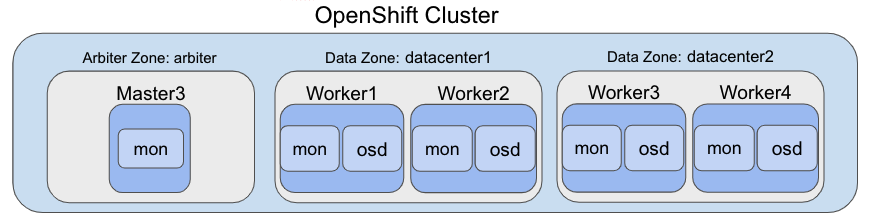
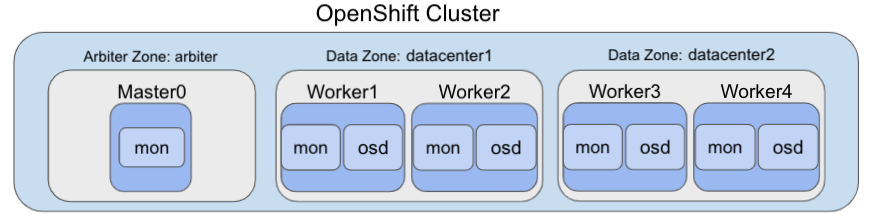
[CI] Publish Documentation for 5119fe1442221f3171c549f44bf7bf0f9fc0684e - 5119fe1442221f3171c549f44bf7bf0f9fc0684e 🚀

diff --git a/training/ocs4/ocs4-metro-stretched.html b/training/ocs4/ocs4-metro-stretched.html
@@ -169,17 +169,16 @@
 <li><a href="#_modify_deployment_to_be_zone_aware">5.1. Modify Deployment to be Zone Aware</a></li>
 </ul>
 </li>
-<li><a href="#_arbiter_zone_failure_test">6. Arbiter Zone Failure Test</a></li>
-<li><a href="#_data_zone_failure_test">7. Data Zone Failure Test</a></li>
-<li><a href="#_appendix_a_openshift_registry_routing_monitoring_zone_aware">8. Appendix A: OpenShift Registry, Routing, Monitoring Zone Aware</a></li>
-<li><a href="#_appendix_b_metro_dr_storagecluster_cli_deployment">9. Appendix B: Metro DR StorageCluster CLI deployment</a></li>
+<li><a href="#_data_zone_failure_test">6. Data Zone Failure Test</a></li>
+<li><a href="#_appendix_a_resiliency_for_openshift_registry_routing_monitoring">7. Appendix A: Resiliency for OpenShift Registry, Routing, Monitoring</a></li>
+<li><a href="#_appendix_b_metro_dr_storagecluster_for_cli_deployment">8. Appendix B: Metro DR StorageCluster for CLI deployment</a></li>
 </ul>
 </div>
 <div class="sect1">
 <h2 id="_overview"><a class="anchor" href="#_overview"></a>1. Overview</h2>
 <div class="sectionbody">
 <div class="paragraph">
-<p>In order to provide a level of disaster recovery an OpenShift Container Platform (OCP) deployment can be <code>stretched</code> between two geographically different locations. To do this necessary services including storage must be able to survive when one of the two locations is partially or totally not available. This solution sometimes is called <code>Metro DR stretch cluster</code> which means the distance between the sites needs to be limited so that OpenShift services and storage can operate with acceptable performance.</p>
+<p>In order to provide a level of disaster recovery an OpenShift Container Platform (OCP) deployment can be <code>stretched</code> between two geographically different locations. To be resilient in the face of a disaster necessary OCP services, including storage, must be able to survive when one of the two locations is partially or totally not available. This solution sometimes is called <code>Metro DR stretch cluster</code> which means the distance between the sites needs to be limited so that OpenShift services and storage can operate with acceptable performance.</p>
 </div>
 <div class="admonitionblock note">
 <table>
@@ -188,13 +187,13 @@
 <i class="fa icon-note" title="Note"></i>
 </td>
 <td class="content">
-Currently <code>Metro DR stretch cluster</code> is designed to be deployed where latencies do not exceed 4 milliseconds round-trip time (RTT) between locations. Contact <a href="https://access.redhat.com/support">Red Hat Customer Support</a> if you are planning to deploy with higher latencies.
+Currently <code>Metro DR stretch cluster</code> is tested to be deployed where latencies do not exceed 4 milliseconds round-trip time (RTT) between OCP nodes in different locations. Contact <a href="https://access.redhat.com/support">Red Hat Customer Support</a> if you are planning to deploy with higher latencies.
 </td>
 </tr>
 </table>
 </div>
 <div class="paragraph">
-<p>The intent of this solution guide is to detail the steps and commands necessary to deploy <code>OpenShift Data Foundation</code>(ODF) along with Kubernetes zone topology labels to achieve a highly available platform.</p>
+<p>The intent of this solution guide is to detail the steps and commands necessary to deploy <code>OpenShift Data Foundation</code>(ODF) along with Kubernetes zone topology labels to achieve a highly available storage infrastructure.</p>
 </div>
 <div class="paragraph">
 <p>This is a general overview of the steps required to configure and execute <code>Metro DR stretch cluster</code> capabilities using ODF <strong>4.7</strong> or greater.</p>
@@ -206,16 +205,16 @@ Currently <code>Metro DR stretch cluster</code> is designed to be deployed where
 Ensure that there is a master node in each of the two locations and that the 3rd master node is in a 3rd location to act as the arbiter in the case of site outage.</p>
 </li>
 <li>
-<p><strong>Ensure you have at least 4 OCP worker nodes in 2 different locations</strong><br>
-Ensure that the worker nodes are evenly split in each of the two locations with a minimum of 2 worker nodes in each location.</p>
+<p><strong>Ensure you have a minimum of 4 OCP worker nodes</strong><br>
+Ensure you have at least 4 OCP worker nodes evenly dispersed across 2 different locations.</p>
 </li>
 <li>
 <p><strong>Assign kubernetes topology zone labels to each master and worker node</strong><br>
-Assign unique topology.kubernetes.io/zone labels to each node to define failure domains as well as the arbiter zone.</p>
+Assign unique <code>topology.kubernetes.io/zone</code> labels to each node to define failure domains as well as the arbiter zone.</p>
 </li>
 <li>
-<p><strong>Install OpenShift Container Storage operator</strong><br>
-Install the OCS operator using OperatorHub in the OpenShift Web console.</p>
+<p><strong>Install ODF operators and storage cluster</strong><br>
+Install the OpenShift Container Storage operator and storage cluster using OperatorHub in the OpenShift Web console.</p>
 </li>
 <li>
 <p><strong>Install a sample application for failure testing</strong><br>
@@ -237,7 +236,7 @@ Simulate a recovery by powering back on all nodes and validate sample applicatio
 <h2 id="_metro_dr_stretch_cluster_prerequisites"><a class="anchor" href="#_metro_dr_stretch_cluster_prerequisites"></a>2. Metro DR Stretch Cluster Prerequisites</h2>
 <div class="sectionbody">
 <div class="paragraph">
-<p>The diagram shows the most simple deployment for <code>Metro DR stretch cluster</code>. The ODF Monitor pod that is the <code>arbiter</code> in case of a site outage can be scheduled on a master node. The diagram does not show an additional master nodes in each <code>Data Zone</code> which is required for a highly available OCP control plane. Also, it is critical that the OCP nodes in one location have network reachability to the OCP nodes in the other two locations.</p>
+<p>The diagram shows the most simple deployment for <code>Metro DR stretch cluster</code>. The ODF Monitor pod that is the <code>arbiter</code> in case of a site outage can be scheduled on a master node. The diagram does not show the master nodes in each <code>Data Zone</code>. They are required for a highly available OCP control plane. Also, it is critical that the OCP nodes in one location have network reachability to the OCP nodes in the other two locations.</p>
 </div>
 <div class="imageblock">
 <div class="content">
@@ -260,15 +259,23 @@ Refer to the <a href="https://access.redhat.com/documentation/en-us/red_hat_open
 <div class="sect2">
 <h3 id="_apply_topology_zone_labels_to_ocp_nodes"><a class="anchor" href="#_apply_topology_zone_labels_to_ocp_nodes"></a>2.1. Apply topology zone labels to OCP nodes</h3>
 <div class="paragraph">
-<p>Prior to installing ODF the nodes that will be used for storage and the node for the arbiter function must be labeled to define their zone. In our case we will use the label <code>datacenter1</code> for one location with storage nodes and <code>datacenter2</code> for the other location. The zone that will have the arbiter function in the case of a site outage will use the <code>arbiter</code> label. These labels are arbitrary but they do need to be unique for the 3 locations.</p>
+<p>Prior to installing ODF the nodes used for storage and the node used to host the arbiter function must be specifically labeled to define their function. In our case we will use the label <code>datacenter1</code> for one location with storage nodes and <code>datacenter2</code> for the other location. The zone that will have the arbiter function in the case of a site outage will use the <code>arbiter</code> label. These labels are arbitrary but they do need to be unique for the 3 locations.</p>
 </div>
 <div class="paragraph">
-<p>For example, you can label the nodes and in the diagram as follows (including master nodes not shown):</p>
+<p>For example, you can label the nodes and in <code>Figure 1</code> as follows (including master nodes not shown in diagram):</p>
 </div>
-<div class="paragraph">
-<p>topology.kubernetes.io/zone=arbiter for Master3
-topology.kubernetes.io/zone=datacenter1 for Master1 Worker1 &amp; Worker2
-topology.kubernetes.io/zone=datacenter2 for Master2 Worker3 &amp; Worker4</p>
+<div class="ulist">
+<ul>
+<li>
+<p>topology.kubernetes.io/zone=arbiter for Master0</p>
+</li>
+<li>
+<p>topology.kubernetes.io/zone=datacenter1 for Master1, Worker1, Worker2</p>
+</li>
+<li>
+<p>topology.kubernetes.io/zone=datacenter2 for Master2, Worker3, Worker4</p>
+</li>
+</ul>
 </div>
 <div class="paragraph">
 <p>To apply the labels to the node using <code>oc</code> CLI do the following:</p>
@@ -283,46 +290,46 @@ topology.kubernetes.io/zone=datacenter2 for Master2 Worker3 &amp; Worker4</p>
 </div>
 <div class="listingblock execute">
 <div class="content">
-<pre class="highlightjs highlight"><code class="language-shell hljs" data-lang="shell">oc get nodes -l topology.kubernetes.io/zone=arbiter | awk {'print $1}'</code></pre>
+<pre class="highlightjs highlight"><code class="language-shell hljs" data-lang="shell">oc get nodes -l topology.kubernetes.io/zone=arbiter -o name</code></pre>
 </div>
 </div>
 <div class="listingblock">
 <div class="title">Example output:</div>
 <div class="content">
 <pre>NAME
-perf1-mz8bt-master-0</pre>
+node/perf1-mz8bt-master-0</pre>
 </div>
 </div>
 <div class="listingblock execute">
 <div class="content">
-<pre class="highlightjs highlight"><code class="language-shell hljs" data-lang="shell">oc get nodes -l topology.kubernetes.io/zone=datacenter1 | awk {'print $1}'</code></pre>
+<pre class="highlightjs highlight"><code class="language-shell hljs" data-lang="shell">oc get nodes -l topology.kubernetes.io/zone=datacenter1 -o name</code></pre>
 </div>
 </div>
 <div class="listingblock">
 <div class="title">Example output:</div>
 <div class="content">
 <pre>NAME
-perf1-mz8bt-master-1
-perf1-mz8bt-worker-d2hdm
-perf1-mz8bt-worker-k68rv</pre>
+node/perf1-mz8bt-master-1
+node/perf1-mz8bt-worker-d2hdm
+node/perf1-mz8bt-worker-k68rv</pre>
 </div>
 </div>
 <div class="listingblock execute">
 <div class="content">
-<pre class="highlightjs highlight"><code class="language-shell hljs" data-lang="shell">oc get nodes -l topology.kubernetes.io/zone=datacenter2 | awk {'print $1}'</code></pre>
+<pre class="highlightjs highlight"><code class="language-shell hljs" data-lang="shell">oc get nodes -l topology.kubernetes.io/zone=datacenter2 -o name</code></pre>
 </div>
 </div>
 <div class="listingblock">
 <div class="title">Example output:</div>
 <div class="content">
 <pre>NAME
-perf1-mz8bt-master-2
-perf1-mz8bt-worker-ntkp8
-perf1-mz8bt-worker-qpwsr</pre>
+node/perf1-mz8bt-master-2
+node/perf1-mz8bt-worker-ntkp8
+node/perf1-mz8bt-worker-qpwsr</pre>
 </div>
 </div>
 <div class="paragraph">
-<p>You have now created the <code>Metro DR stretch cluster</code> topology zones that are required for site outage recovery.</p>
+<p>The <code>Metro DR stretch cluster</code> topology zone labels are now applied to the appropriate OCP nodes to define the three locations. Next step is installing the storage operators from OCP <strong>OperatorHub</strong>.</p>
 </div>
 </div>
 </div>
@@ -1037,18 +1044,37 @@ become co-located on the same node.</p>
 </div>
 <div class="listingblock execute">
 <div class="content">
-<pre class="highlightjs highlight"><code class="language-shell hljs" data-lang="shell">oc get deployment -o yaml -n my-shared-storage | less</code></pre>
+<pre class="highlightjs highlight"><code class="language-shell hljs" data-lang="shell">oc get deployment file-uploader -o yaml -n my-shared-storage | less</code></pre>
 </div>
 </div>
 <div class="paragraph">
-<p>Search for <code>containers</code> and repeat the search a few times until your output is similar. There is no pod placement rules in the <strong>Deployment</strong>.</p>
+<p>Search for <code>containers</code> and repeat the search a few times until your output is similar. There is currently no pod placement rules in the default <strong>Deployment</strong> <code>file-uploader</code>.</p>
 </div>
 <div class="listingblock">
 <div class="title">Example Output:</div>
 <div class="content">
 <pre class="highlightjs highlight"><code class="language-yaml hljs" data-lang="yaml">[...]
-      spec:
-        containers:
+spec:
+  progressDeadlineSeconds: 600
+  replicas: 4
+  revisionHistoryLimit: 10
+  selector:
+    matchLabels:
+      deployment: file-uploader
+  strategy:
+    rollingUpdate:
+      maxSurge: 25%
+      maxUnavailable: 25%
+    type: RollingUpdate
+  template:
+    metadata:
+      annotations:
+        openshift.io/generated-by: OpenShiftNewApp
+      creationTimestamp: null
+      labels:
+        deployment: file-uploader
+      spec:  # &lt;-- Start inserted lines after here
+        containers:  # &lt;-- End inserted lines before here
         - image: image-registry.openshift-image-registry.svc:5000/my-shared-storage/file-uploader@sha256:a458ea62f990e431ad7d5f84c89e2fa27bdebdd5e29c5418c70c56eb81f0a26b
           imagePullPolicy: IfNotPresent
           name: file-uploader
@@ -1056,11 +1082,11 @@ become co-located on the same node.</p>
 </div>
 </div>
 <div class="paragraph">
-<p>Currently the deployment is not configured to be zone aware. The <strong>Deployment</strong> needs to be modified to use the topology zone labels as shown below. Edit the deployment and add the new lines below.</p>
+<p>Currently the deployment is not configured to be zone aware. The <strong>Deployment</strong> needs to be modified to use the topology zone labels as shown below. Edit the deployment and add the new lines below between the <code>start</code> and <code>end</code> point.</p>
 </div>
 <div class="listingblock execute">
 <div class="content">
-<pre class="highlightjs highlight"><code class="language-shell hljs" data-lang="shell">oc edit deployment -n my-shared-storage</code></pre>
+<pre class="highlightjs highlight"><code class="language-shell hljs" data-lang="shell">oc edit deployment file-uploader -n my-shared-storage</code></pre>
 </div>
 </div>
 <div class="listingblock">
@@ -1083,9 +1109,6 @@ become co-located on the same node.</p>
         nodeSelector:
           node-role.kubernetes.io/worker: ""
         containers:
-        - image: image-registry.openshift-image-registry.svc:5000/my-shared-storage/file-uploader@sha256:a458ea62f990e431ad7d5f84c89e2fa27bdebdd5e29c5418c70c56eb81f0a26b
-          imagePullPolicy: IfNotPresent
-          name: file-uploader
 [...]</code></pre>
 </div>
 </div>
@@ -1204,39 +1227,94 @@ uploaded files.</p>
 </div>
 </div>
 <div class="sect1">
-<h2 id="_arbiter_zone_failure_test"><a class="anchor" href="#_arbiter_zone_failure_test"></a>6. Arbiter Zone Failure Test</h2>
+<h2 id="_data_zone_failure_test"><a class="anchor" href="#_data_zone_failure_test"></a>6. Data Zone Failure Test</h2>
 <div class="sectionbody">
 <div class="paragraph">
-<p>This test is designed to demonstrates that if the failure domain hosting the
-Monitor running in Arbiter mode is subject to a failure the application remains
-available at all time. Both RPO and RTO are equal to 0.</p>
-</div>
-<div class="paragraph">
-<p>TBD</p>
+<p><strong>Under Construction</strong></p>
 </div>
 </div>
 </div>
 <div class="sect1">
-<h2 id="_data_zone_failure_test"><a class="anchor" href="#_data_zone_failure_test"></a>7. Data Zone Failure Test</h2>
+<h2 id="_appendix_a_resiliency_for_openshift_registry_routing_monitoring"><a class="anchor" href="#_appendix_a_resiliency_for_openshift_registry_routing_monitoring"></a>7. Appendix A: Resiliency for OpenShift Registry, Routing, Monitoring</h2>
 <div class="sectionbody">
 <div class="paragraph">
-<p>TBD</p>
+<p><strong>Under Construction</strong></p>
 </div>
 </div>
 </div>
 <div class="sect1">
-<h2 id="_appendix_a_openshift_registry_routing_monitoring_zone_aware"><a class="anchor" href="#_appendix_a_openshift_registry_routing_monitoring_zone_aware"></a>8. Appendix A: OpenShift Registry, Routing, Monitoring Zone Aware</h2>
+<h2 id="_appendix_b_metro_dr_storagecluster_for_cli_deployment"><a class="anchor" href="#_appendix_b_metro_dr_storagecluster_for_cli_deployment"></a>8. Appendix B: Metro DR StorageCluster for CLI deployment</h2>
 <div class="sectionbody">
 <div class="paragraph">
-<p>TBD</p>
+<p>Example <strong>StorageCluster</strong> CR for <code>Metro DR stretch cluster</code>. For each set of 4 OSDs increment the <code>count</code> by 1.</p>
+</div>
+<div class="admonitionblock note">
+<table>
+<tr>
+<td class="icon">
+<i class="fa icon-note" title="Note"></i>
+</td>
+<td class="content">
+Under the <code>managedResources</code> section is the default setting of <code>manage</code> for OCS services (i.e., block, file, object using RGW, object using NooBaa). This means any changes to OCS <code>CustomResources</code> (CRs) will always reconcile back to default values. The other choices instead of <code>manage</code> are <code>init</code> and <code>ignore</code>. The setting of <code>init</code> for the service (i.e., cephBlockPools) will not reconcile back to default if changes are made to the CR. The setting of <code>ignore</code> will not deploy the particular service.
+</td>
+</tr>
+</table>
+</div>
+<div class="listingblock">
+<div class="content">
+<pre class="highlightjs highlight"><code class="language-yaml hljs" data-lang="yaml">apiVersion: ocs.openshift.io/v1
+kind: StorageCluster
+metadata:
+  name: ocs-storagecluster
+  namespace: openshift-storage
+spec:
+  arbiter:
+    enable: true  # &lt;-- Enable arbiter mode for Metro Dr stretch cluster
+  nodeTopologies:
+    arbiterLocation: arbiter  # &lt;-- Modify to label for arbiter zone
+  manageNodes: false
+  resources: {}
+  monDataDirHostPath: /var/lib/rook
+  managedResources:
+    cephBlockPools:
+      reconcileStrategy: manage
+    cephFilesystems:
+      reconcileStrategy: manage
+    cephObjectStoreUsers:
+      reconcileStrategy: manage
+    cephObjectStores:
+      reconcileStrategy: manage
+    snapshotClasses:
+      reconcileStrategy: manage
+    storageClasses:
+      reconcileStrategy: manage
+  multiCloudGateway:
+    reconcileStrategy: manage
+  storageDeviceSets:
+  - count: 1  #  &lt;-- For each set of 4 disks increment the count by 1
+    dataPVCTemplate:
+      spec:
+        accessModes:
+        - ReadWriteOnce
+        resources:
+          requests:
+            storage: "100Gi"  # &lt;-- Use value smaller than actual disk size
+        storageClassName: localblock  &lt;-- Modify to correct LSO storageclass
+        volumeMode: Block
+    name: ocs-deviceset
+    placement: {}
+    portable: false
+    replica: 4 #  &lt;-- Replica = 4 for volume and object storage
+    resources: {}</code></pre>
 </div>
 </div>
-</div>
-<div class="sect1">
-<h2 id="_appendix_b_metro_dr_storagecluster_cli_deployment"><a class="anchor" href="#_appendix_b_metro_dr_storagecluster_cli_deployment"></a>9. Appendix B: Metro DR StorageCluster CLI deployment</h2>
-<div class="sectionbody">
 <div class="paragraph">
-<p>TBD</p>
+<p>Save contents above to storagecluster-metrodr.yaml file.</p>
+</div>
+<div class="listingblock">
+<div class="content">
+<pre class="highlightjs highlight"><code class="language-shell hljs" data-lang="shell">oc create -f storagecluster-metrodr.yaml</code></pre>
+</div>
 </div>
 </div>
 </div>
